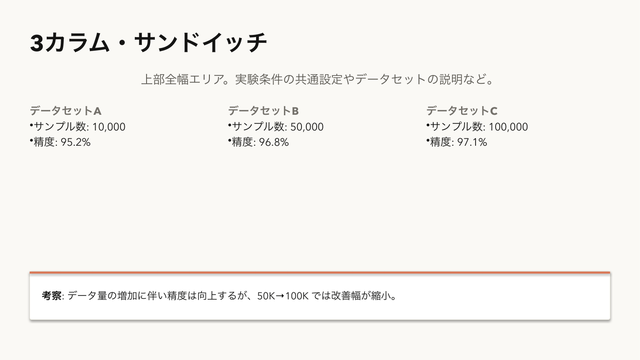
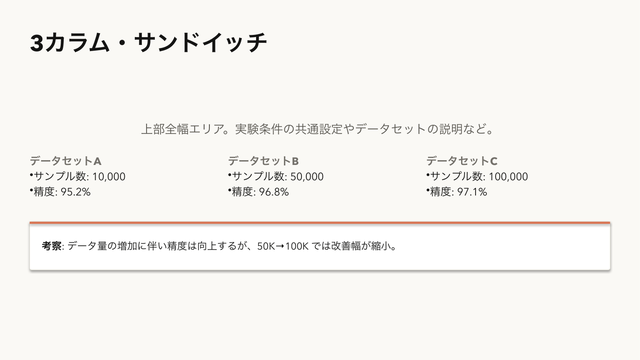
Fit sandwich columns to content, scale short equations, widen history
Third pass of the quality sweep, on the three follow-ups from the
catalog audit:

- sandwich: the column band was a fixed 3.2in regardless of content,
  leaving a hole between short columns and the conclusion box. The band
  now takes what the columns measure (_column_height + 2.6in per image
  slot), so the lead → columns → conclusion stack hugs and centers
- equation: fixed 34pt made a short identity float small in 12in of
  canvas — brevity now buys size (44pt ≤10 glyphs, 40 ≤18, 36 ≤30,
  else 34; glyph proxy strips TeX commands and braces)
- history: rows widen to the agenda rhythm (1.15in) so a 3-5 item
  history owns the canvas, and highlighted years use ACCENT_TEXT for
  AA contrast (same fix the timelines got)

180 passed; doctor clean on the v3 demo; gallery regenerated (53/53).

Claude-Session: https://claude.ai/code/session_017fP3X4NokWzessKVkvdYeN

diff --git a/src/marp_pptx/builder.py b/src/marp_pptx/builder.py
@@ -1746,7 +1746,11 @@ class PptxBuilder:
             self._add_title(slide, sd.h1)
         region = self._content_region(has_title=bool(sd.h1))
         _, rtop, _, rheight = region
-        EQ_PT = 34
+        # A short identity (E=mc², a definition) at a fixed 34pt floats small
+        # in 12in of canvas — let brevity buy size. The glyph proxy strips
+        # commands/braces so \frac{a}{b} counts its visible glyphs only.
+        glyphs = len(re.sub(r"\\[a-zA-Z]+|[{}^_\s]", "", sd.eq_main or ""))
+        EQ_PT = 44 if glyphs <= 10 else 40 if glyphs <= 18 else 36 if glyphs <= 30 else 34
         # Estimate the equation block + variable legend, center the stack.
         eq_h_est = int(Emu(int(EQ_PT * 2.4 * 12700)))
         var_n = len(sd.eq_vars)
@@ -2081,7 +2085,20 @@ class PptxBuilder:
                                                 width=rwidth)) if sd.top_text else 0
         concl_h = int(Inches(1.0)) if sd.bottom_text else 0
         gaps = (int(BLOCK_GAP) if sd.top_text and n else 0) + (int(BLOCK_GAP) if sd.bottom_text and n else 0)
-        col_h = int(min(Inches(3.2), rheight - lead_h - concl_h - gaps))
+        # Size the column band to what the columns actually need (a fixed
+        # 3.2in band left a hole between short columns and the conclusion);
+        # images reserve the 2.5in slot _add_column_content gives them.
+        needed = 0
+        if n:
+            gap_w = int(CARD_GAP)
+            est_w = (rwidth - gap_w * (n - 1)) // n
+            for col_lines in sd.columns:
+                n_imgs = sum(1 for l in col_lines if l.strip().startswith("!["))
+                h = self._column_height(
+                    [l for l in col_lines if not l.strip().startswith("![")],
+                    SZ_COL, est_w) + n_imgs * int(Inches(2.6))
+                needed = max(needed, h)
+        col_h = int(min(needed, rheight - lead_h - concl_h - gaps)) if n else 0
         block_h = lead_h + (int(BLOCK_GAP) if sd.top_text and n else 0) + \
                   (col_h if n else 0) + (int(BLOCK_GAP) if sd.bottom_text and n else 0) + concl_h
         cur = rtop + max(0, (rheight - block_h) // 2)
@@ -2802,7 +2819,9 @@ class PptxBuilder:
         if n == 0:
             return
         rleft, rtop, rwidth, rheight = self._content_region(has_title=bool(sd.h1))
-        row_h = int(min(Inches(0.92), rheight / max(n, 1)))
+        # Same rhythm as agenda: taller rows let a 3-5 item history own the
+        # canvas instead of pooling in the middle band.
+        row_h = int(min(Inches(1.15), rheight / max(n, 1)))
         block_h = row_h * n
         top = rtop + max(0, (rheight - block_h) // 2)
         year_w = int(Inches(1.5))
@@ -2814,7 +2833,7 @@ class PptxBuilder:
             p = yr.text_frame.paragraphs[0]
             p.text = item.get("year", "")
             p.font.name = self.FONT_HEAD; p.font.size = self._fs(SZ_H3)
-            p.font.bold = True; p.font.color.rgb = self.ACCENT
+            p.font.bold = True; p.font.color.rgb = self.ACCENT_TEXT
             p.alignment = PP_ALIGN.RIGHT
             # vertical connector tick
             self._hairline(slide, ev_x - int(Inches(0.18)), y + int(Inches(0.04)),
